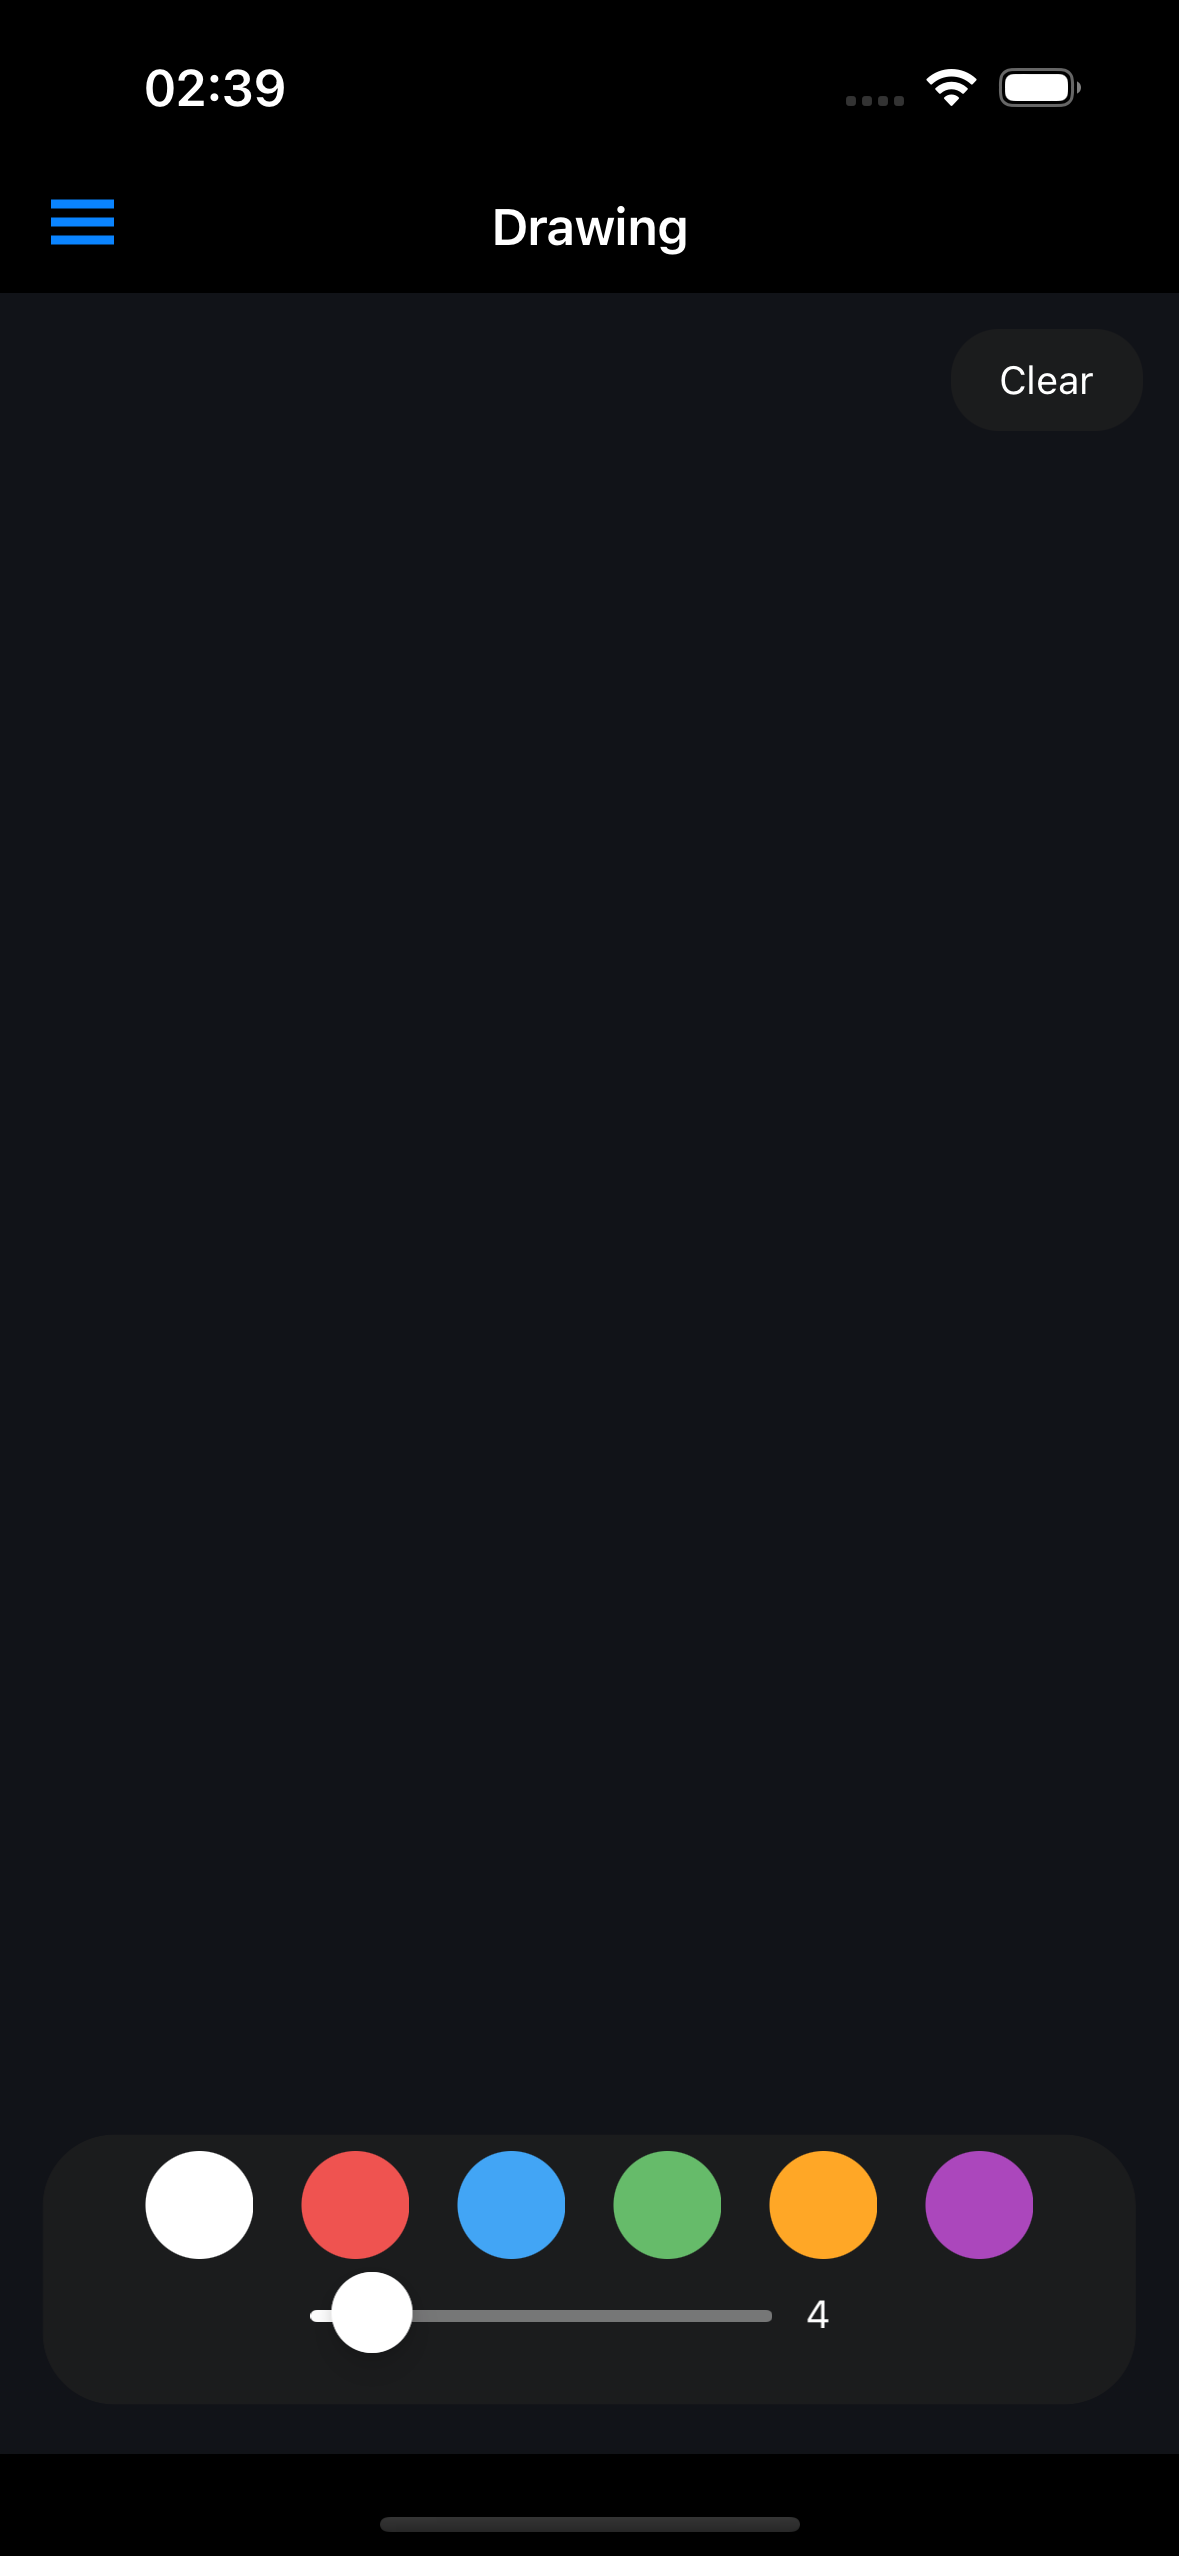
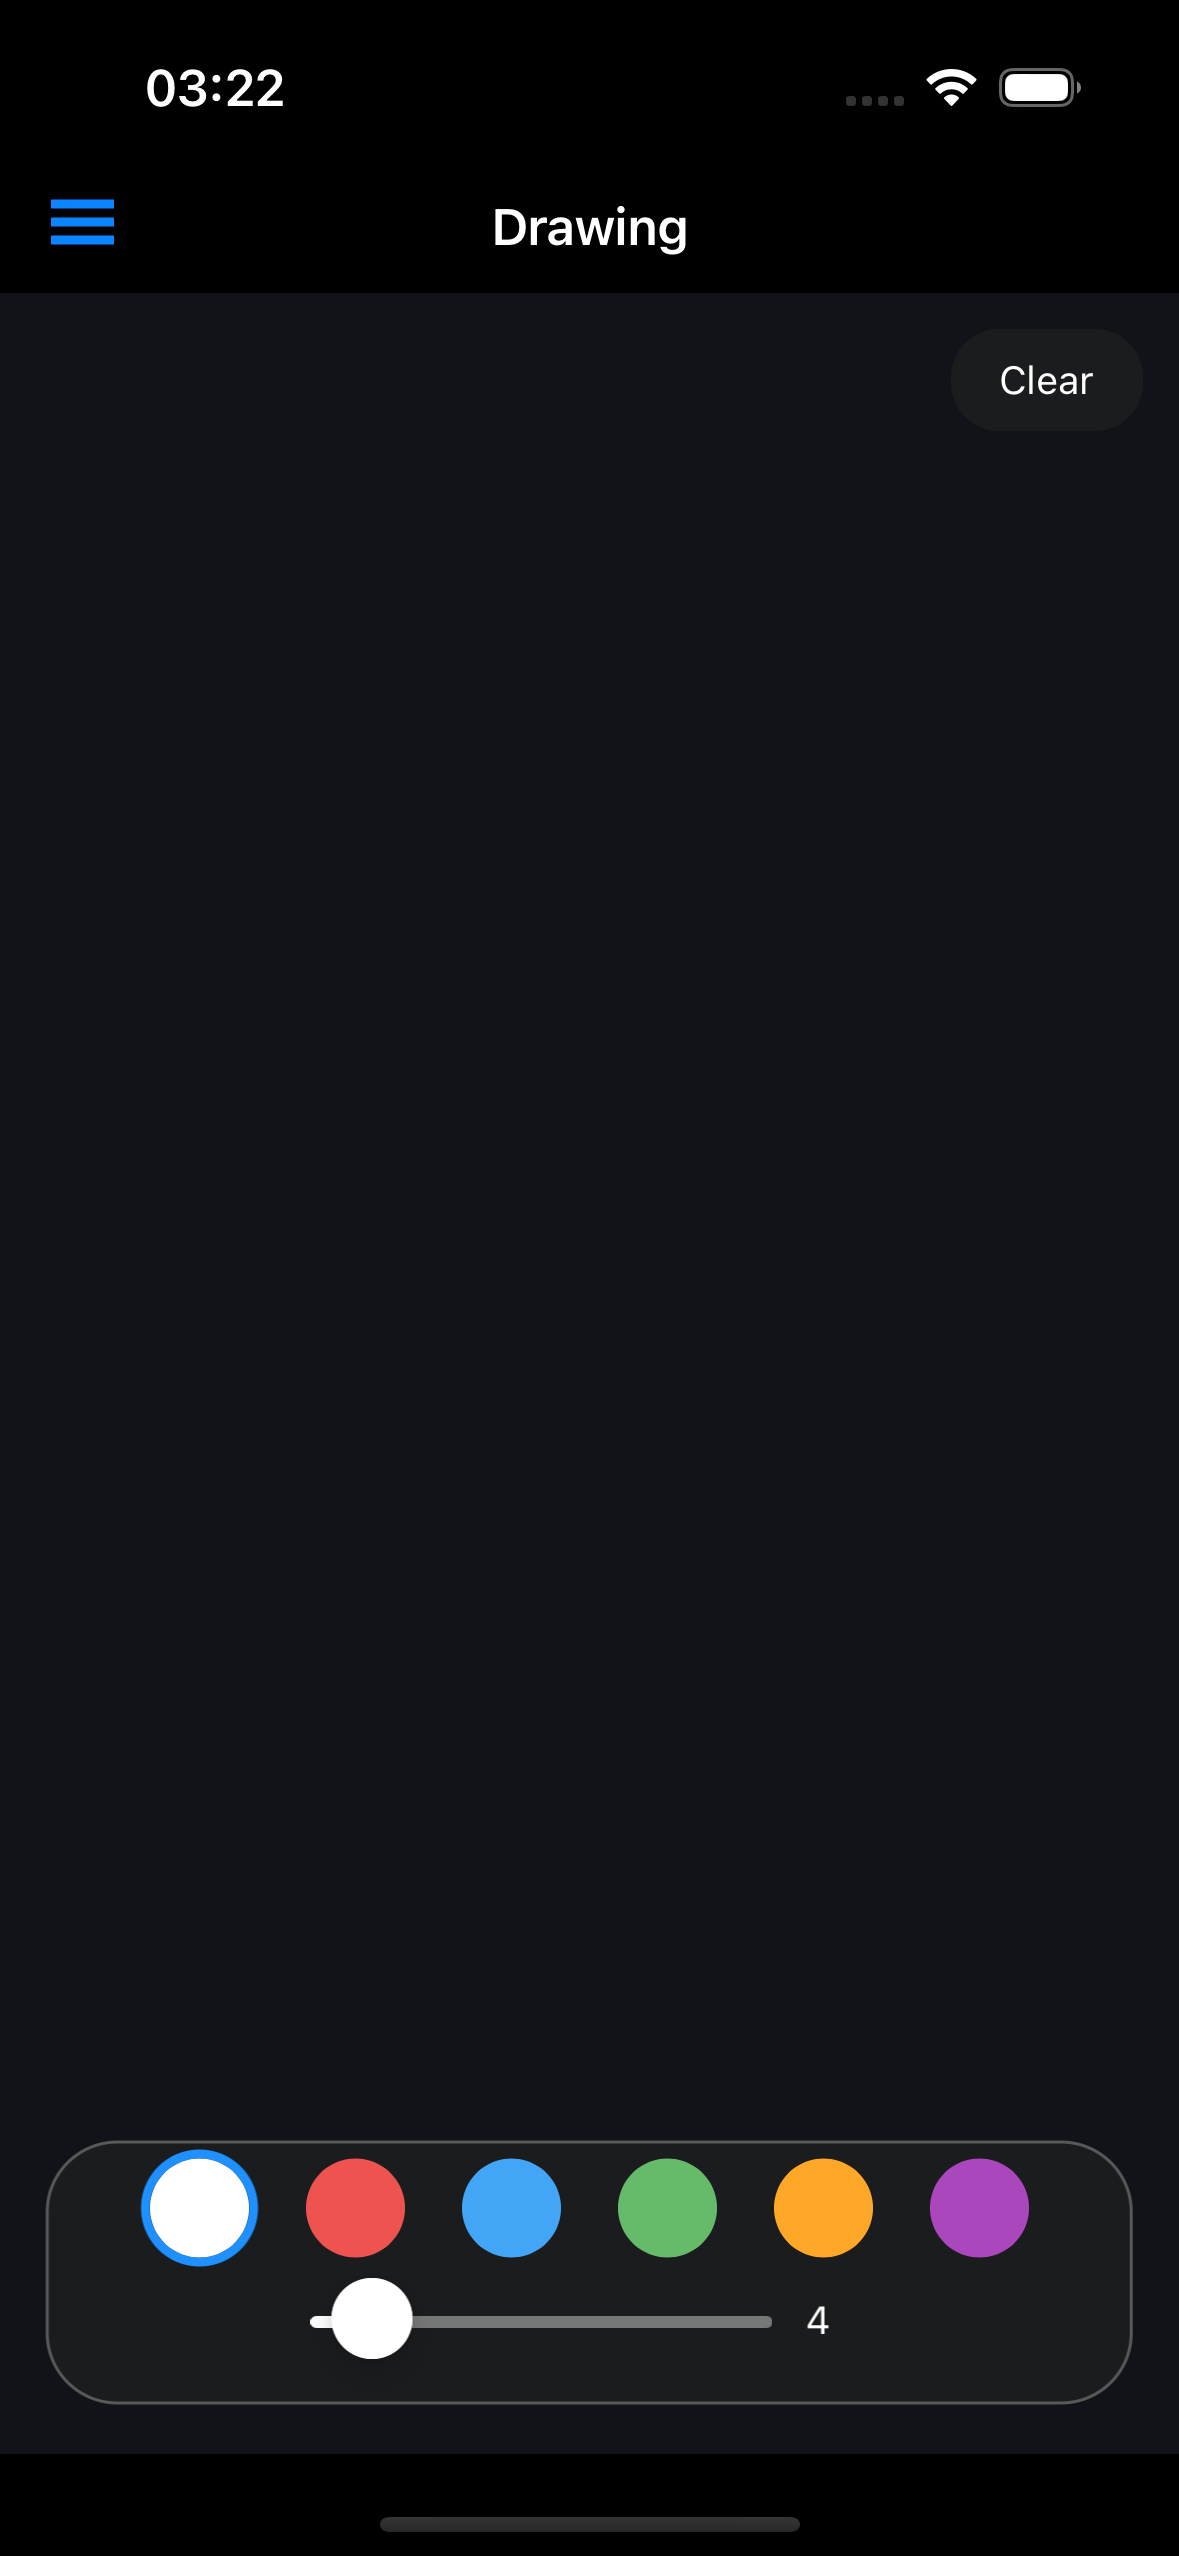
MAUI: Drawing toolbox border, selection ring, OnIdiom layout
- Add subtle border stroke on toolbox for dark mode visibility
- Wrap color swatches in Border elements with blue selection ring
- Use OnIdiom for vertical (phone) / horizontal (desktop) layout
- Track selected swatch with DodgerBlue stroke indicator
- Retake all 6 iOS screenshots (light/dark for CPU, GPU, Drawing)

diff --git a/samples/Basic/Maui/SkiaSharpSample/DrawingPage.xaml b/samples/Basic/Maui/SkiaSharpSample/DrawingPage.xaml
@@ -29,32 +29,57 @@
                 VerticalOptions="End"
                 Margin="0,0,0,16"
                 StrokeShape="RoundRectangle 24"
-                Stroke="Transparent"
+                Stroke="#44FFFFFF"
+                StrokeThickness="1"
                 BackgroundColor="#CC1E1E1E"
-                Padding="20,14"
+                Padding="16,12"
                 InputTransparent="False">
-            <StackLayout x:Name="toolboxStack" Orientation="Horizontal" Spacing="12">
+            <StackLayout Orientation="{OnIdiom Phone=Vertical, Default=Horizontal}" Spacing="12">
 
                 <!-- Color swatches -->
-                <FlexLayout Direction="Row" JustifyContent="Center" Wrap="NoWrap" AlignItems="Center">
-                    <Button BackgroundColor="{AppThemeBinding Light=#000000, Dark=#FFFFFF}"
-                            WidthRequest="36" HeightRequest="36" CornerRadius="18"
-                            Clicked="OnColorClicked" Margin="0,0,8,0" BorderWidth="0" Padding="0" />
-                    <Button BackgroundColor="{AppThemeBinding Light=#E53935, Dark=#EF5350}"
-                            WidthRequest="36" HeightRequest="36" CornerRadius="18"
-                            Clicked="OnColorClicked" Margin="0,0,8,0" BorderWidth="0" Padding="0" />
-                    <Button BackgroundColor="{AppThemeBinding Light=#1E88E5, Dark=#42A5F5}"
-                            WidthRequest="36" HeightRequest="36" CornerRadius="18"
-                            Clicked="OnColorClicked" Margin="0,0,8,0" BorderWidth="0" Padding="0" />
-                    <Button BackgroundColor="{AppThemeBinding Light=#43A047, Dark=#66BB6A}"
-                            WidthRequest="36" HeightRequest="36" CornerRadius="18"
-                            Clicked="OnColorClicked" Margin="0,0,8,0" BorderWidth="0" Padding="0" />
-                    <Button BackgroundColor="{AppThemeBinding Light=#FB8C00, Dark=#FFA726}"
-                            WidthRequest="36" HeightRequest="36" CornerRadius="18"
-                            Clicked="OnColorClicked" Margin="0,0,8,0" BorderWidth="0" Padding="0" />
-                    <Button BackgroundColor="{AppThemeBinding Light=#8E24AA, Dark=#AB47BC}"
-                            WidthRequest="36" HeightRequest="36" CornerRadius="18"
-                            Clicked="OnColorClicked" BorderWidth="0" Padding="0" />
+                <FlexLayout x:Name="swatchContainer" Direction="Row" JustifyContent="Center" Wrap="NoWrap" AlignItems="Center">
+                    <Border StyleClass="swatch" StrokeShape="RoundRectangle 20" Padding="0" BackgroundColor="Transparent"
+                            Stroke="{x:Static Colors.DodgerBlue}" StrokeThickness="3" WidthRequest="40" HeightRequest="40">
+                        <Button BackgroundColor="{AppThemeBinding Light=#000000, Dark=#FFFFFF}"
+                                WidthRequest="34" HeightRequest="34" CornerRadius="17"
+                                Clicked="OnColorClicked" BorderWidth="0" Padding="0"
+                                HorizontalOptions="Center" VerticalOptions="Center" />
+                    </Border>
+                    <Border StyleClass="swatch" StrokeShape="RoundRectangle 20" Padding="0" BackgroundColor="Transparent"
+                            Stroke="Transparent" StrokeThickness="3" WidthRequest="40" HeightRequest="40" Margin="6,0,0,0">
+                        <Button BackgroundColor="{AppThemeBinding Light=#E53935, Dark=#EF5350}"
+                                WidthRequest="34" HeightRequest="34" CornerRadius="17"
+                                Clicked="OnColorClicked" BorderWidth="0" Padding="0"
+                                HorizontalOptions="Center" VerticalOptions="Center" />
+                    </Border>
+                    <Border StyleClass="swatch" StrokeShape="RoundRectangle 20" Padding="0" BackgroundColor="Transparent"
+                            Stroke="Transparent" StrokeThickness="3" WidthRequest="40" HeightRequest="40" Margin="6,0,0,0">
+                        <Button BackgroundColor="{AppThemeBinding Light=#1E88E5, Dark=#42A5F5}"
+                                WidthRequest="34" HeightRequest="34" CornerRadius="17"
+                                Clicked="OnColorClicked" BorderWidth="0" Padding="0"
+                                HorizontalOptions="Center" VerticalOptions="Center" />
+                    </Border>
+                    <Border StyleClass="swatch" StrokeShape="RoundRectangle 20" Padding="0" BackgroundColor="Transparent"
+                            Stroke="Transparent" StrokeThickness="3" WidthRequest="40" HeightRequest="40" Margin="6,0,0,0">
+                        <Button BackgroundColor="{AppThemeBinding Light=#43A047, Dark=#66BB6A}"
+                                WidthRequest="34" HeightRequest="34" CornerRadius="17"
+                                Clicked="OnColorClicked" BorderWidth="0" Padding="0"
+                                HorizontalOptions="Center" VerticalOptions="Center" />
+                    </Border>
+                    <Border StyleClass="swatch" StrokeShape="RoundRectangle 20" Padding="0" BackgroundColor="Transparent"
+                            Stroke="Transparent" StrokeThickness="3" WidthRequest="40" HeightRequest="40" Margin="6,0,0,0">
+                        <Button BackgroundColor="{AppThemeBinding Light=#FB8C00, Dark=#FFA726}"
+                                WidthRequest="34" HeightRequest="34" CornerRadius="17"
+                                Clicked="OnColorClicked" BorderWidth="0" Padding="0"
+                                HorizontalOptions="Center" VerticalOptions="Center" />
+                    </Border>
+                    <Border StyleClass="swatch" StrokeShape="RoundRectangle 20" Padding="0" BackgroundColor="Transparent"
+                            Stroke="Transparent" StrokeThickness="3" WidthRequest="40" HeightRequest="40" Margin="6,0,0,0">
+                        <Button BackgroundColor="{AppThemeBinding Light=#8E24AA, Dark=#AB47BC}"
+                                WidthRequest="34" HeightRequest="34" CornerRadius="17"
+                                Clicked="OnColorClicked" BorderWidth="0" Padding="0"
+                                HorizontalOptions="Center" VerticalOptions="Center" />
+                    </Border>
                 </FlexLayout>
 
                 <!-- Brush size slider + label -->
@@ -73,27 +98,6 @@
                            VerticalOptions="Center"
                            WidthRequest="24" />
                 </StackLayout>
-
-                <VisualStateManager.VisualStateGroups>
-                    <VisualStateGroup x:Name="AdaptiveStates">
-                        <VisualState x:Name="Narrow">
-                            <VisualState.StateTriggers>
-                                <AdaptiveTrigger MinWindowWidth="0" />
-                            </VisualState.StateTriggers>
-                            <VisualState.Setters>
-                                <Setter TargetName="toolboxStack" Property="StackLayout.Orientation" Value="Vertical" />
-                            </VisualState.Setters>
-                        </VisualState>
-                        <VisualState x:Name="Wide">
-                            <VisualState.StateTriggers>
-                                <AdaptiveTrigger MinWindowWidth="600" />
-                            </VisualState.StateTriggers>
-                            <VisualState.Setters>
-                                <Setter TargetName="toolboxStack" Property="StackLayout.Orientation" Value="Horizontal" />
-                            </VisualState.Setters>
-                        </VisualState>
-                    </VisualStateGroup>
-                </VisualStateManager.VisualStateGroups>
             </StackLayout>
         </Border>
     </Grid>

diff --git a/samples/Basic/Maui/SkiaSharpSample/DrawingPage.xaml.cs b/samples/Basic/Maui/SkiaSharpSample/DrawingPage.xaml.cs
@@ -3,6 +3,7 @@ using System.Collections.Generic;
 using Microsoft.Maui;
 using Microsoft.Maui.ApplicationModel;
 using Microsoft.Maui.Controls;
+using Microsoft.Maui.Graphics;
 using SkiaSharp;
 using SkiaSharp.Views.Maui;
 
@@ -28,10 +29,16 @@ namespace SkiaSharpSample
 		bool IsDarkMode => Application.Current?.RequestedTheme == AppTheme.Dark;
 		SKColor CanvasBackground => IsDarkMode ? new SKColor(0x11, 0x13, 0x18) : SKColors.White;
 
+		Border? selectedSwatchBorder;
+
 		public DrawingPage()
 		{
 			InitializeComponent();
 			currentColor = IsDarkMode ? SKColors.White : SKColors.Black;
+
+			// First swatch border is pre-selected in XAML (Stroke=DodgerBlue)
+			if (swatchContainer.Children.Count > 0 && swatchContainer.Children[0] is Border firstBorder)
+				selectedSwatchBorder = firstBorder;
 		}
 
 		void OnThemeChanged(object sender, AppThemeChangedEventArgs e)
@@ -125,13 +132,18 @@ namespace SkiaSharpSample
 
 		private void OnColorClicked(object sender, EventArgs e)
 		{
-			if (sender is Button btn && btn.Parent is Layout parent)
+			if (sender is Button btn && btn.Parent is Border border && border.Parent is Layout parent)
 			{
-				var index = parent.Children.IndexOf(btn);
+				var index = parent.Children.IndexOf(border);
 				if (index >= 0 && index < colorPalette.Length)
 				{
 					var (light, dark) = colorPalette[index];
 					currentColor = IsDarkMode ? dark : light;
+
+					if (selectedSwatchBorder != null)
+						selectedSwatchBorder.Stroke = Colors.Transparent;
+					border.Stroke = Colors.DodgerBlue;
+					selectedSwatchBorder = border;
 				}
 			}
 		}
